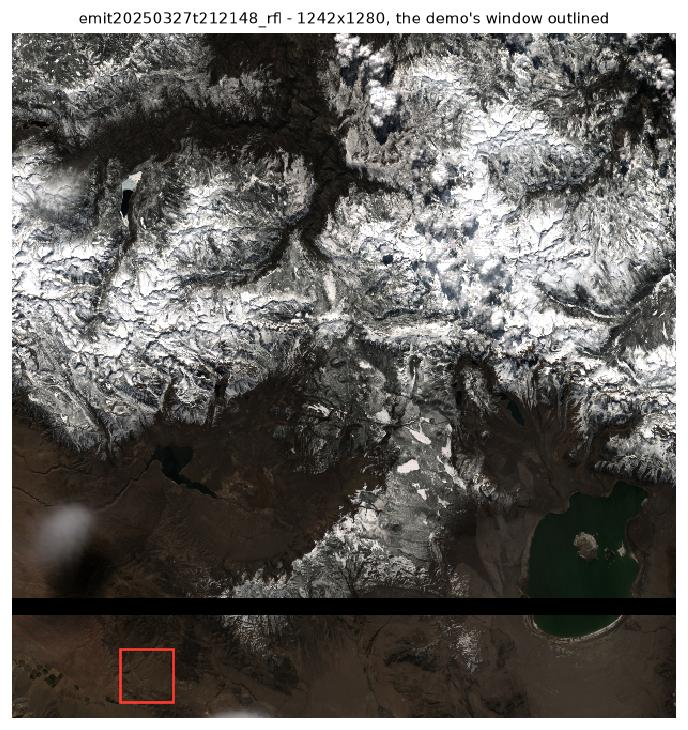
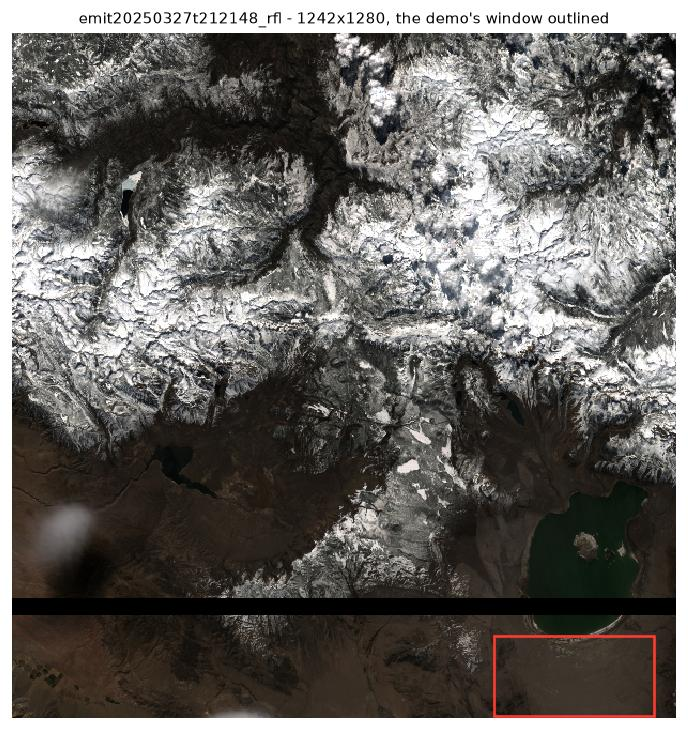
Widen the demo scene to 300 samples: below 299 the products are misaligned
Asked about an artifact along the top of the mineral maps. It was real, and
it was caused by the crop being 100 samples wide.

Tetracorder writes its product rasters with a VICAR label. creatoutfiles.r
pads LBLSIZE up to at least 299 bytes:

    lblsiz = oreclen
    if (lblsiz < 299) lblsiz = oreclen*(int(299/oreclen)+1)

The companion ENVI header is written by wrtenvihdr.r, which does not take
lblsiz as a parameter and recomputes it locally as

    if (envidt == '1') lblsiz = dx        # samples, no padding

The two agree only when samples >= 299. At 100 samples the file carried
LBLSIZE=300 while its header declared header offset = 100, so GDAL -- and
therefore aggregate, which reads these through rasterio -- skipped 200 bytes
too few. Proven directly: reading at the declared offset returns exactly the
correct data shifted down two rows, with 200 bytes of ASCII label as rows 0
and 1 and the last two rows of real results lost off the end. Every material
showed the same constant 62.23 in row 0, which is label text, not mineralogy.

creatoutfiles.r even carries the warning "NOTE IF cublineout.r subroutine is
changed, so must this one!!!". cublineout.r was kept in sync; wrtenvihdr.r
was missed.

Real EMIT granules are 1242 samples wide, so they never meet this. Only a
small crop does, and this demo made one.

The scene is now a 300x150 window at lines 1125-1274, samples 900-1199,
published as demo-data-v3. Verified after the change: LBLSIZE 300 == header
[…]

Changed region(s): [[0.702, 0.8438, 0.9767, 0.9945], [0.1526, 0.874, 0.2747, 0.9644]]

diff --git a/.devcontainer/page/index.html b/.devcontainer/page/index.html
@@ -89,7 +89,7 @@
 <body>
 <main>
   <h1>Tetracorder on an EMIT L2A scene</h1>
-  <p class="sub">A 100&times;100 window of granule <code>emit20250327t212148</code>, run end to end
+  <p class="sub">A 300&times;150 window of granule <code>emit20250327t212148</code>, run end to end
      through <code>tetrapy</code>: convolve the USGS spectral library onto the scene's channels,
      set up and run Tetracorder, aggregate the results into L2B mineral products.</p>
 
@@ -116,26 +116,35 @@
     <div class="grid">
       <figure>
         <img src="rfl_rgb.png" alt="True-colour reflectance quicklook of the subset">
-        <figcaption>What the demo ran on: a 100&times;100 window, true colour
+        <figcaption>What the demo ran on: a 300&times;150 window, true colour
           (640 / 550 / 470 nm).</figcaption>
       </figure>
       <figure>
         <img src="full-scene.jpg" alt="The full granule with the demo's window outlined">
         <figcaption>Where it came from. The whole granule is 1242&times;1280 &mdash;
-          159&times; more pixels &mdash; and mostly snow-covered mountain. The window
-          was placed by scanning for the strongest mean 2.2&nbsp;&micro;m absorption,
-          which is why it lands in the one arid strip.</figcaption>
+          35&times; more pixels &mdash; and mostly snow-covered mountain. The window
+          was placed by scanning for the strongest mean 2.2&nbsp;&micro;m absorption
+          away from the cross-track edges, which is why it lands in the arid
+          strip.</figcaption>
       </figure>
     </div>
 
     <p class="prose"><b>This is a subset.</b> Running a whole granule is the same
       command against a bigger file &mdash; point <code>data.rfl</code> and
       <code>data.rfluncert</code> in the config at it. Expect roughly half an hour
-      rather than nine minutes: measured on this hardware a full 1242&times;1280
-      granule took about 34 minutes against 9 for this window, so 159&times; the
-      pixels cost under 4&times; the time. Tetracorder emits its ~2,400 mineral
+      rather than eight minutes: measured on this hardware a full 1242&times;1280
+      granule took about 34 minutes against 7m42s for this window, so 35&times; the
+      pixels cost under 5&times; the time. Tetracorder emits its ~2,400 mineral
       products whatever the scene size, and on a small scene that fixed cost is
       almost the whole runtime.</p>
+    <p class="prose"><b>The window is 300 samples wide on purpose.</b> Tetracorder
+      writes its product rasters with a VICAR label padded to at least 299 bytes,
+      but the matching ENVI header is generated separately and computes the offset
+      as just <code>samples</code>, without that padding. The two agree only at
+      299 samples or more. Narrower, and every product raster is read two rows out
+      of alignment &mdash; label text in the top rows, the last rows of real
+      results lost off the end. Full EMIT granules are 1242 wide and never meet
+      it; a small crop can.</p>
 
     <p class="prose">The scene is an <b>ENVI</b> raster: a flat binary cube of
       numbers with no metadata inside it at all, paired with a plain-text

diff --git a/.devcontainer/tools/make_context_image.py b/.devcontainer/tools/make_context_image.py
@@ -1,7 +1,7 @@
 """
 Render a quicklook of a whole granule with the demo's window drawn on it.
 
-The demo runs on a 100x100 crop, which is easy to mistake for the size of an
+The demo runs on a 300x150 crop, which is easy to mistake for the size of an
 EMIT product. This produces the picture that puts it in proportion: the full
 granule, with the subset outlined where it was actually cut from.
 
@@ -10,7 +10,7 @@ cube and is never downloaded there. The result is committed under
 .devcontainer/page/ and served alongside the results.
 
     python make_context_image.py in/emit20250327t212148_rfl \
-        .devcontainer/page/full-scene.png --line 1150 --sample 200 --size 100
+        .devcontainer/page/full-scene.jpg --line 1125 --sample 900
 """
 
 from __future__ import annotations
@@ -46,9 +46,10 @@ def main() -> None:
                                      formatter_class=argparse.RawDescriptionHelpFormatter)
     parser.add_argument("rfl", type=Path, help="full granule reflectance (the data, not the .hdr)")
     parser.add_argument("out", type=Path, help="PNG to write")
-    parser.add_argument("--line", type=int, default=1150)
-    parser.add_argument("--sample", type=int, default=200)
-    parser.add_argument("--size", type=int, default=100)
+    parser.add_argument("--line", type=int, default=1125)
+    parser.add_argument("--sample", type=int, default=900)
+    parser.add_argument("--height", type=int, default=150)
+    parser.add_argument("--width-px", dest="win_w", type=int, default=300)
     parser.add_argument("--width", type=int, default=700, help="target width in pixels")
     args = parser.parse_args()
 
@@ -72,7 +73,7 @@ def main() -> None:
     ax.imshow(rgb, interpolation="nearest")
     ax.add_patch(Rectangle(
         (args.sample / step, args.line / step),
-        args.size / step, args.size / step,
+        args.win_w / step, args.height / step,
         fill=False, edgecolor="#ff3b30", linewidth=1.6,
     ))
     ax.set_title(f"{args.rfl.name} - {samples}x{lines}, the demo's window outlined",

diff --git a/.devcontainer/tools/make_subset.py b/.devcontainer/tools/make_subset.py
@@ -2,8 +2,12 @@
 Crop a spatial window out of an ENVI cube pair (reflectance + uncertainty).
 
 Used to build the small scene the Codespaces demo runs on. The full EMIT L2A
-granule is 1242x1280x285 float32 (1.8 GB per cube); a 100x100 window is ~11 MB
-per cube, which fits comfortably in a GitHub release asset.
+granule is 1242x1280x285 float32 (1.8 GB per cube); a 300x150 window is ~51 MB
+per cube.
+
+Keep the window at least 299 samples wide: Tetracorder's ENVI headers disagree
+with its own VICAR labels below that, and every product raster comes back two
+rows out of alignment. See .devcontainer/README.md.
 
 The crop is spatial only -- every band is kept, because the ``convolve`` stage
 reads its target wavelength/FWHM grid straight out of the reflectance header

diff --git a/.devcontainer/README.md b/.devcontainer/README.md
@@ -13,10 +13,10 @@ configure.
 
 Three things have to exist before the badge works for anyone who clicks it:
 
-1. **Publish the scene.** Create a release tagged `demo-data-v2` and attach the
+1. **Publish the scene.** Create a release tagged `demo-data-v3` and attach the
    archive built by `tools/make_subset.py` (see [The scene](#the-scene)). The
    URL in `devcontainer.json` points at
-   `releases/download/demo-data-v2/emit20250327t212148_100x100.tar.gz`.
+   `releases/download/demo-data-v3/emit20250327t212148_300x150.tar.gz`.
 
 2. **Push the branch** so `.github/workflows/container.yml` runs and publishes
    `ghcr.io/jl-0/tetracorder-lite:demo`.
@@ -55,7 +55,7 @@ at a time:
 
 ```
   [x] 1. Container image    ghcr.io/jl-0/tetracorder-lite:demo, 1.7 GB compressed
-  [x] 2. Sample scene       100x100 window of EMIT granule emit20250327t212148
+  [x] 2. Sample scene       300x150 window of EMIT granule emit20250327t212148
   [ ] 3. Run Tetracorder    convolve, setup, tetrun, aggregate -- about 9 minutes
   [ ] 4. Open the results   mineral maps and the live log, on a forwarded port
 ```
@@ -159,12 +159,12 @@ also has the right lifecycle: preserved across stop/start, discarded on rebuild.
 ## Runtime
 
 Measured on this branch, 4 vCPU, amd64 under Rosetta on an Apple M5 Max
-(Colima), 100x100 scene, timed end to end including rendering:
+(Colima), 300x150 scene, timed end to end including rendering:
 
 | | |
 |---|---|
-| with the overlay imagery Tetracorder writes by default | 10m 12s |
-| with `nodualimages` / `noredoverlayimages`, as configured here | **8m 52s** |
+| 100x150 scene with the overlay imagery left on | 10m 12s |
+| with `nodualimages` / `noredoverlayimages`, as configured here | **7m 42s** |
 
 Both produce identical mineralogy — 56.0% of pixels identified in group 1 over
 20 materials, 99.2% in group 2 over 44 — so the overlays cost time and nothing
@@ -181,6 +181,16 @@ Much of the tail is single-threaded (gzipping several thousand small output
 files), so extra cores past 4 buy less than the first two do.
 
 ## The scene
+
+**The window must be at least 299 samples wide.** Tetracorder writes its
+product rasters with a VICAR label whose `LBLSIZE` is padded up to at least 299
+bytes (`creatoutfiles.r`), but the companion ENVI header comes from
+`wrtenvihdr.r`, which independently recomputes the offset as just `samples` and
+omits that padding. The two agree only when samples >= 299. Narrower than that
+and every product raster is read out of alignment -- at 100 samples the header
+said `header offset = 100` against a real label of 300, so the top two rows were
+ASCII label text and the bottom two rows of results were lost. Real EMIT
+granules are 1242 wide and never hit it; a small crop does.
 
 `tools/make_subset.py` cuts the window out of a full granule. The window at
 line 1150, sample 200 was chosen by scanning the granule for the strongest mean
@@ -266,7 +276,7 @@ Overrides, all read by `scripts/common.sh`:
 |---|---|
 | `TETRACORDER_IMAGE` | `ghcr.io/jl-0/tetracorder-lite:demo` |
 | `TETRACORDER_BUILD` | `0` — set to `1` to build from `Containerfile` |
-| `TETRACORDER_SCENE_URL` | the `demo-data-v2` release asset |
+| `TETRACORDER_SCENE_URL` | the `demo-data-v3` release asset |
 | `TETRACORDER_SCENE_SHA256` | checksum of that archive; `-` disables the check |
 | `TETRACORDER_WORK` | `$HOME/tetracorder-demo` |
 | `TETRACORDER_PORT` | `8080` |

diff --git a/README.md b/README.md
@@ -20,7 +20,7 @@ of Tetracorder.  Suggested contributions are welcome as PRs.
 
 [![Open in GitHub Codespaces](https://github.com/codespaces/badge.svg)](https://codespaces.new/jl-0/tetracorder-lite/tree/codespace-demo?quickstart=1)
 
-A guided walkthrough: run Tetracorder over a 100x100 window of a real EMIT L2A
+A guided walkthrough: run Tetracorder over a 300x150 window of a real EMIT L2A
 scene, one step at a time, and see the mineral maps at the end. No install, no
 configuration; about ten minutes of which nine are the run itself.
 

diff --git a/.devcontainer/START-HERE.md b/.devcontainer/START-HERE.md
@@ -70,7 +70,7 @@ Tetracorder, open the results — and tells you what each one does before it doe
 it. Nothing has been started for you.
 
 A full run is about nine minutes. That cost is almost entirely fixed: Tetracorder
-emits roughly 2,400 mineral products whatever the scene size, so the 100×100
+emits roughly 2,400 mineral products whatever the scene size, so the 300×150
 window is not what makes it slow.
 
 > Stopping a codespace terminates every running process but keeps your files, so
